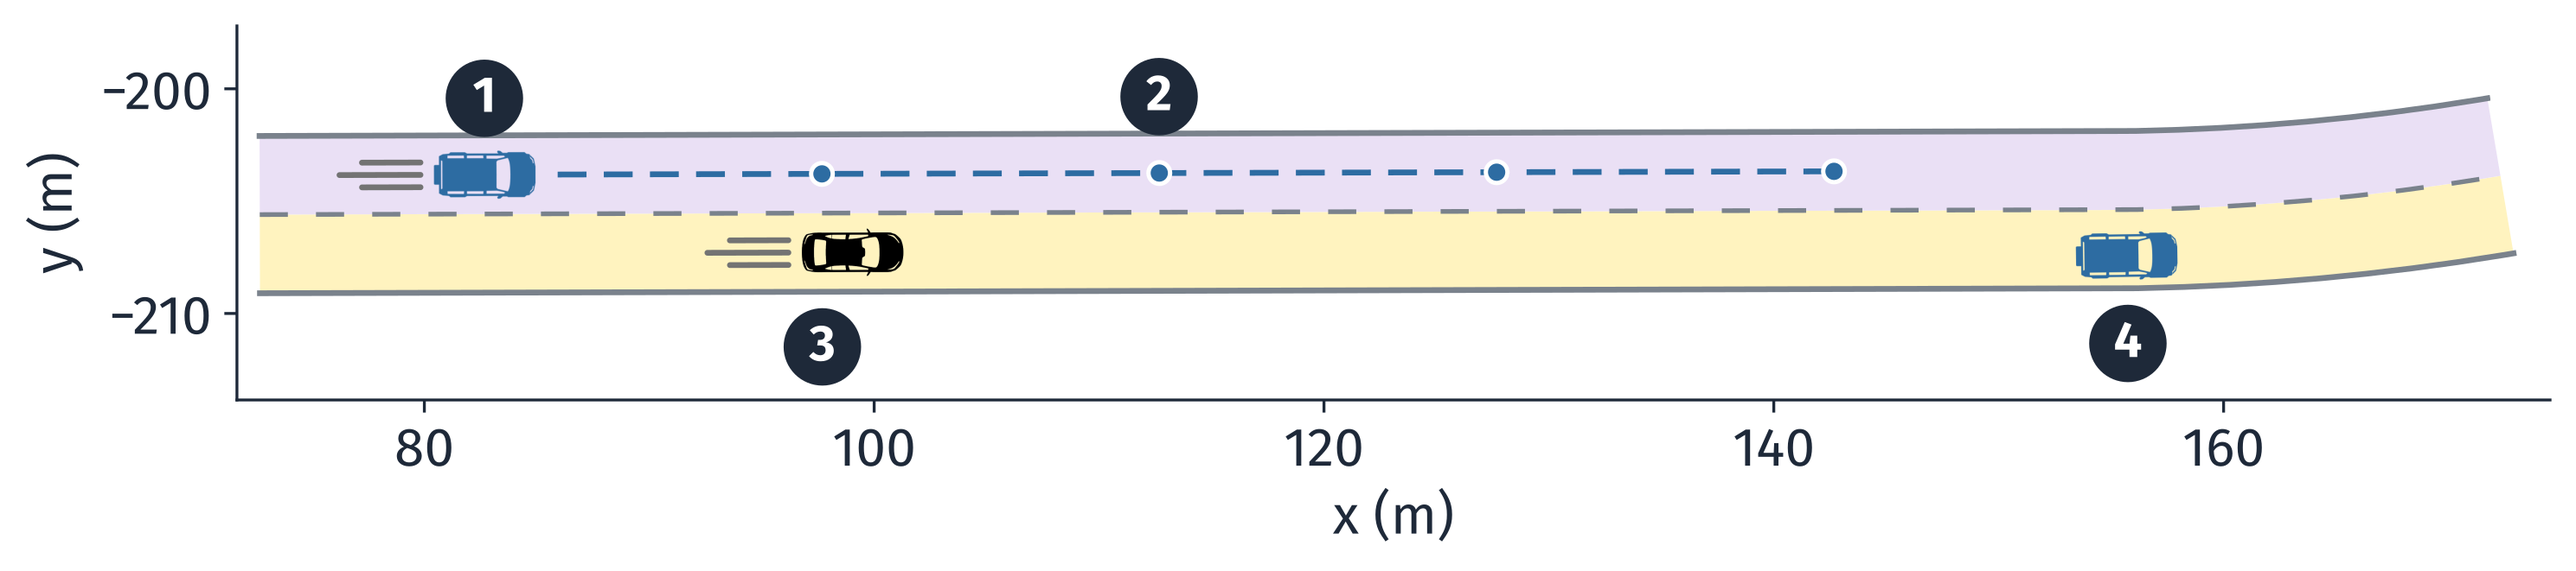
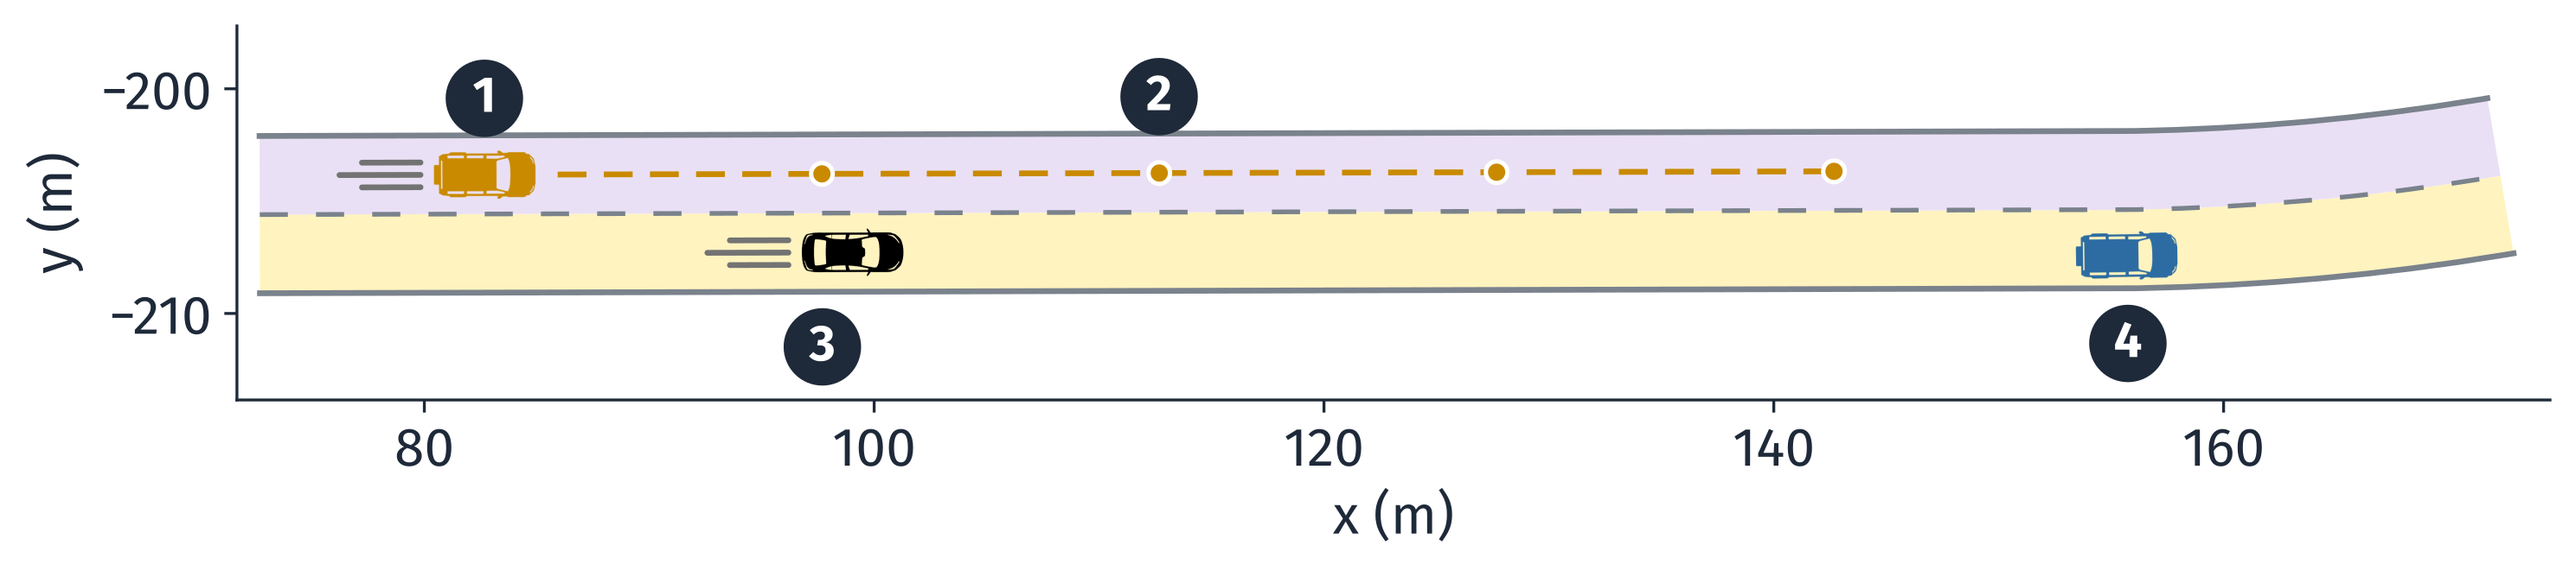
L10: car B, the moving car in the left lane, in amber, apart from the blue parked car

Changed region(s): [[0.1561, 0.2421, 0.7183, 0.3631]]

diff --git a/docs/source/lectures/lecture10/l10_lecture.rst b/docs/source/lectures/lecture10/l10_lecture.rst
@@ -1060,7 +1060,7 @@ Plan Around a Car That Moves: Last Class Closed the Lane Instead
 ~~~~~~~~~~~~~~~~~~~~~~~~~~~~~~~~~~~~~~~~~~~~~~~~~~~~~~~~~~~~~~~~
 
 .. figure:: /_static/images/L10/traj_scene.png
-   :alt: A top view of the two-lane road, to scale: the right lane light yellow, the left lane light purple, a dashed line between them. In the left lane, at the left, a blue car, dark tag 1. A blue dashed line runs ahead of it along the left lane's center, with a blue dot every second for four seconds, dark tag 2 above the second dot. In the right lane the black AV, tag 3, below the first dots, and far ahead a blue parked car, tag 4. Short gray lines trail behind car B and the AV to show that they move; the parked car has none.
+   :alt: A top view of the two-lane road, to scale: the right lane light yellow, the left lane light purple, a dashed line between them. In the left lane, at the left, an amber car, car B, dark tag 1. An amber dashed line runs ahead of it along the left lane's center, with an amber dot every second for four seconds, dark tag 2 above the second dot. In the right lane the black AV, tag 3, below the first dots, and far ahead a blue parked car, tag 4. Short gray lines trail behind car B and the AV to show that they move; the parked car has none.
    :width: 95%
    :align: center
 
@@ -1100,7 +1100,7 @@ Same Path, Two Timings: One Meets Car B, the Other Does Not
    **path** says only where.
 
 .. figure:: /_static/images/L10/traj_two_timings.png
-   :alt: Two top views of the same stretch of road, to scale, one above the other, dark tags 1 and 2. Short gray lines trail behind each moving car to show that it moves; the parked car has none. Three circles cover each car, the ones the collision check compares: at tag 1 the AV's front circle overlaps car B's rear circle; at tag 2 they are far apart. Both show the same black line: it keeps the right lane, then curves smoothly into the left lane's center. Black dots on the line mark each second. Top, tag 1: the dots are evenly spaced; the black AV is crossing the dashed lane line, and the blue car B is right beside and slightly ahead of it, the two bodies touching. Bottom, tag 2: the dots are closer together at first; the AV is still in the right lane, well behind car B, which is in the left lane. The blue parked car is in the right lane at the right of both views.
+   :alt: Two top views of the same stretch of road, to scale, one above the other, dark tags 1 and 2. Short gray lines trail behind each moving car to show that it moves; the parked car has none. Three circles cover each car, the ones the collision check compares: at tag 1 the AV's front circle overlaps car B's rear circle; at tag 2 they are far apart. Both show the same black line: it keeps the right lane, then curves smoothly into the left lane's center. Black dots on the line mark each second. Top, tag 1: the dots are evenly spaced; the black AV is crossing the dashed lane line, and the amber car B is right beside and slightly ahead of it, the two bodies touching. Bottom, tag 2: the dots are closer together at first; the AV is still in the right lane, well behind car B, which is in the left lane. The blue parked car is in the right lane at the right of both views.
    :width: 90%
    :align: center
 
@@ -1444,7 +1444,7 @@ Plan Again Every 0.5 s: Wait for Car B, Then Pass
 ~~~~~~~~~~~~~~~~~~~~~~~~~~~~~~~~~~~~~~~~~~~~~~~~~
 
 .. figure:: /_static/images/L10/traj_drive.png
-   :alt: Three top views of the road, to scale, dark tags 1 to 3, each with the AV in black, car B and the parked car in blue, a dotted line where the AV has been and a thick green line for its plan. Short gray lines trail behind each moving car to show that it moves; the parked car has none. 1: car B beside the AV in the left lane; the green plan stays in the right lane and ends with a short bar well before the parked car. 2: car B level with the AV; the green plan curves into the left lane. 3: the AV in the left lane beside the parked car; car B far ahead; the green plan goes on along the left lane.
+   :alt: Three top views of the road, to scale, dark tags 1 to 3, each with the AV in black, car B in amber and the parked car in blue, a dotted line where the AV has been and a thick green line for its plan. Short gray lines trail behind each moving car to show that it moves; the parked car has none. 1: car B beside the AV in the left lane; the green plan stays in the right lane and ends with a short bar well before the parked car. 2: car B level with the AV; the green plan curves into the left lane. 3: the AV in the left lane beside the parked car; car B far ahead; the green plan goes on along the left lane.
    :width: 70%
    :align: center
 
